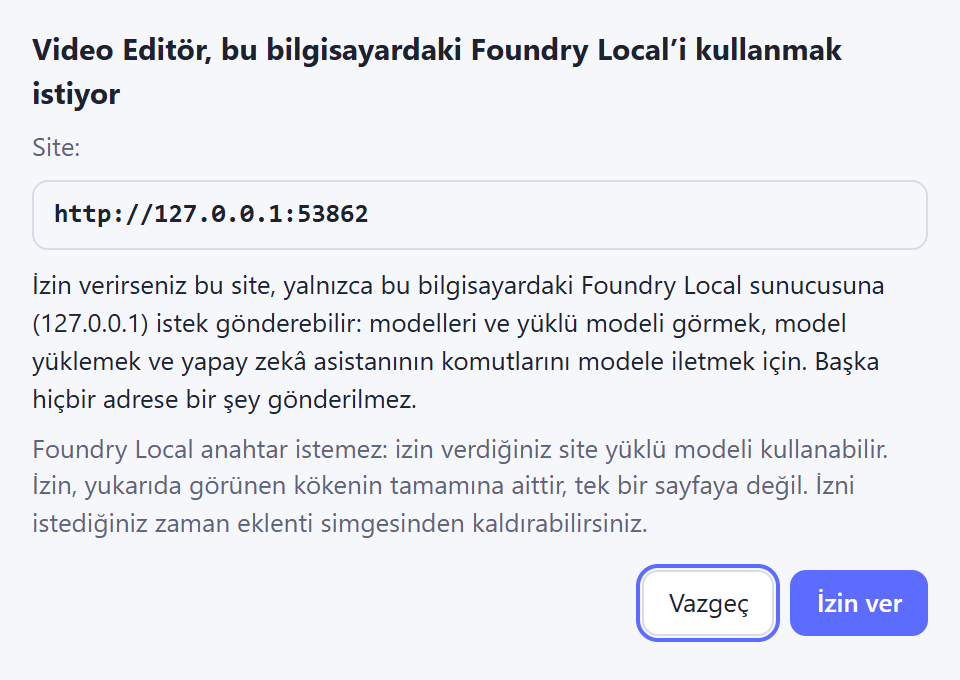
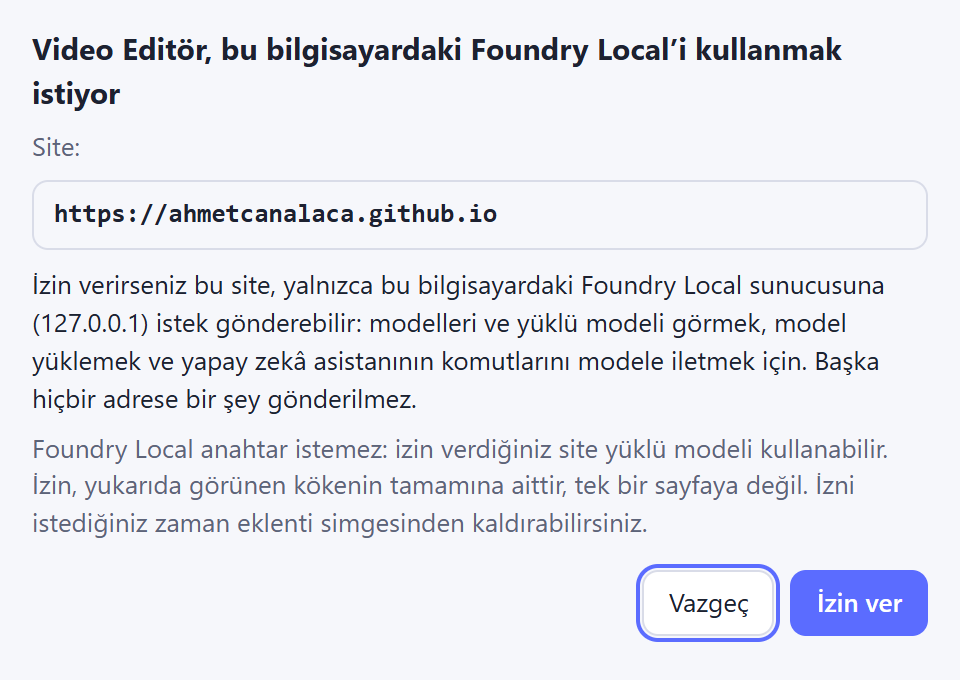
Docs: security review 4.3.0 - publication checks; consent window screenshot with the published origin
- docs/internal/SECURITY-REVIEW-4.3.0.md: the zip on the site is byte for byte the zip of the release foundry-bridge-v1.0.0 (SHA-256 541ed09d...b57a); the
  production extension extracted from the site's zip passed the four steps on the published site against a stand-in for Foundry Local.
- docs/screenshots/web-12-extension-consent-tr.png: the approval window as the production extension shows it for https://ahmetcanalaca.github.io.

Changed region(s): [[0.125, 0.2779, 0.5312, 0.3397]]

diff --git a/docs/internal/SECURITY-REVIEW-4.3.0.md b/docs/internal/SECURITY-REVIEW-4.3.0.md
@@ -31,4 +31,4 @@
 
 **Ek doğrulamalar · further checks:** `ext-policy.test.js` **67/67** (kurallar, manifest, kaynak korumaları, paket, zip tekrarlanabilirliği) · `fl-bridge.test.js` **54/54** (gerçek Edge'de eklenti: onay penceresi ve gecikmesi, yollar, ret nedenleri, iptal, zaman aşımı, 2'li eşzamanlılık + kuyruk sınırı, 36 sn'lik istek, yeniden başlatma, uyanık işçinin yeniden denetimi, tarama, açılır pencere ve port girişi, `window.open` penceresi) · `fl-web.test.js` **30/30** (panel + asistan + `find_in_video`, uçtan uca) · `ai.test.js` **48/48** · `ai-core.test.js` 21/21 · `sync-desktop --check` temiz · **gerçek Foundry Local 0.14 ile canlı deneme** (Foundry yönetimi dahil gerçek dinamik port): ilk sürümde eklenti portu 2,7 / 10,9 sn'de buldu, model ≈25 sn'de yüklendi, "Köpeği yakınlaştır" iki köpekli aralığı buldu (3,75–8,75 ve 12,75–17,75 sn; gerçek 4–9 ve 13–18), zoom 1×→2× köpeğe kilitlendi, sayfa hatası yok; düzeltmelerden sonra son sürümle yeniden deneme: eklenti gerçek portu 3,5 sn'de buldu, model 28,9 sn'de yüklendi (görüntüye bakıyor), "Köpeği yakınlaştır" aynı iki aralığı buldu (3,75–8,75 ve 12,75–17,75 sn), zoom 1×→2× köpeğe kilitlendi (odak [0,38; 0,59] / [0,47; 0,57]), 228 sn, sayfa hatası yok; sunucu sonra yeniden durduruldu. Sayılar tek bir bilgisayara aittir.
 
-**Son derleme · Final build (web 4.3.0, eklenti 1.0.0):** web `npm test` (402 sn) yeşil: audio-dsp, ai-core 21, **ext-policy 67**, smoke 14, ui 39, ai 48, cu 29, locate 25, lna 9, **fl-bridge 54**, **fl-web 30**, export 27, pwa 34 (hizmet işçisi / çevrimdışı / önbellek saldırısı; eklenti zip'inin siteye konması ve önbelleğe alınmaması dahil) · `sync-desktop --check` temiz · site derlemesi (`build.js`) ve eklenti zip'inin yeniden üretilebilirliği (iki derleme aynı SHA-256) · yayın sonrası: sitedeki zip ile sürümdeki zip'in bayt karşılaştırması. · *The whole web suite is green (402 s); `sync-desktop --check` is clean; the extension zip is reproducible; after publication the zip on the site is compared byte for byte with the one in the release.*
+**Son derleme · Final build (web 4.3.0, eklenti 1.0.0):** web `npm test` (402 sn) yeşil: audio-dsp, ai-core 21, **ext-policy 67**, smoke 14, ui 39, ai 48, cu 29, locate 25, lna 9, **fl-bridge 54**, **fl-web 30**, export 27, pwa 34 (hizmet işçisi / çevrimdışı / önbellek saldırısı; eklenti zip'inin siteye konması ve önbelleğe alınmaması dahil) · `sync-desktop --check` temiz · site derlemesi (`build.js`) ve eklenti zip'inin yeniden üretilebilirliği (iki derleme aynı SHA-256) · yayın sonrası: **sitedeki zip ile sürümdeki zip bayt bayt aynı** (61 956 bayt, SHA-256 `541ed09d…b57a`); sitedeki zip'ten çıkarılan **üretim eklentisi**, gerçek bir tarayıcıda **yayındaki siteyle** (`https://ahmetcanalaca.github.io/videoeditor/`) ve bir Foundry Local taklidiyle dört adımı geçti (onay penceresi gerçek kökeni gösterdi; taklit yalnızca `GET /status`, `/v1/models`, `/models/loaded`, `/models/load/*` ve `POST /v1/chat/completions` gördü; sayfa hatası yok); `releases/latest` masaüstü 3.3.0 olarak kaldı. · *The whole web suite is green (402 s); `sync-desktop --check` is clean; the extension zip is reproducible; after publication the zip on the site is byte for byte the one in the release, and the production extension extracted from the site's zip passed the four steps on the published site against a stand-in; `releases/latest` is still the desktop 3.3.0.*
